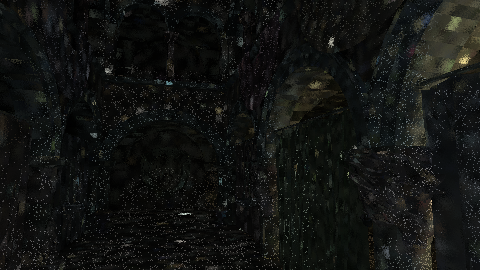
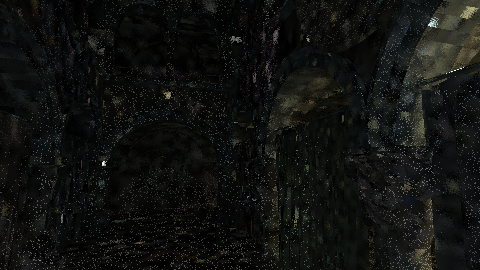
Game pipeline after fixes: final campaign and documentation
- results/jeu_final: 4 scenes, KRC (32 correlated light paths, total + direct
  share cells) vs SHaRC (1x1, accumulation 5, 5x5), denoiser clamped at 1.5
  and 3 standard deviations.
- Sequences: KRC 1.7 to 3.3x less error on Sponza, 5 to 6x on the Cornell box,
  at equal time. Static: Cornell in favour of KRC (1.9 to 4x), Sponza in
  favour of SHaRC (1.1 to 1.6x).
- Blotches reduced, not gone; dark drift 0.74-0.81 after switch-off.
- RESULTATS s15, JOURNAL v14, FEUILLE_DE_ROUTE.

diff --git a/docs/RESULTATS.md b/docs/RESULTATS.md
@@ -532,3 +532,32 @@ Lecture :
   propre. Un joueur verrait les taches.
 - Limites du test : débruiteur simple (pas NRD), 480×270 et 256², scintillement mesuré
   seulement caméra fixe (KRC 0,004 contre 0,005–0,007 pour SHaRC sur Sponza).
+
+## 15. Pipeline de jeu après correctifs
+
+Correctifs (JOURNAL v14) : cellules « total + part directe » au lieu de « indirect
+seulement » (le direct recalculé au sommet relu ajoutait un bruit inutile), 32 chemins
+corrélés par cellule pour une lampe. Même débruiteur pour les deux méthodes, à deux
+réglages du bornage de l'historique (1,5 et 3 écarts-types). 3 graines, `results/jeu_final`.
+
+| Image finale, relMSE* séquence (statique) | KRC 0,5 ch/px | SHaRC 1×1 | SHaRC accumulation 5, 1×1 | Rapport séquence |
+|---|---|---|---|---|
+| Sponza fixe, bornage 1,5 | **1,59e-2** (1,42e-2) · 0,88 ms | 3,46e-2 (1,36e-2) · 0,90 ms | 2,76e-2 (**1,25e-2**) · 0,89 ms | 1,7× |
+| Sponza fixe, bornage 3 | **1,58e-2** (1,24e-2) · 0,94 ms | 4,18e-2 (8,4e-3) · 0,90 ms | 3,28e-2 (**7,8e-3**) · 0,89 ms | 2,1× |
+| Sponza mobile, bornage 1,5 | **2,10e-2** (1,99e-2) · 1,01 ms | 6,38e-2 (1,96e-2) · 1,03 ms | 4,59e-2 (**1,86e-2**) · 1,02 ms | 2,2× |
+| Sponza mobile, bornage 3 | **1,85e-2** (1,83e-2) · 1,03 ms | 8,08e-2 (1,60e-2) · 1,03 ms | 6,11e-2 (**1,55e-2**) · 1,02 ms | 3,3× |
+| Cornell fixe, bornage 1,5 | **5,3e-3** (**9,5e-4**) · 0,48 ms | 3,2e-2 (3,8e-3) · 0,45 ms | 2,8e-2 (3,2e-3) · 0,46 ms | 5,3× |
+| Cornell mobile, bornage 1,5 | **5,1e-3** (**2,0e-3**) · 0,48 ms | 3,6e-2 (5,2e-3) · 0,38 ms | 3,2e-2 (4,5e-3) · 0,37 ms | 6,3× |
+
+Lecture :
+
+- **Sur les séquences, KRC gagne à temps égal partout** : 1,7 à 3,3× sur Sponza, 5 à 6×
+  sur la Cornell box, contre le meilleur SHaRC (réactif compris), au même réglage du
+  débruiteur.
+- **En statique** : KRC 1,9 à 4× meilleur sur la Cornell box ; sur Sponza, SHaRC reste
+  meilleur, de 1,1× (bornage 1,5) à 1,6× (bornage 3).
+- **Après l'extinction de la grande lampe** : KRC à la bonne luminance en 1 frame
+  (1,00–1,16) puis une dérive sombre (0,74–0,81 à f110) ; SHaRC 1,5 à 7× trop clair
+  pendant des dizaines de frames. Les taches de KRC ont nettement diminué mais restent
+  visibles à f119.
+- **Pics** : p95 de KRC 1,3 à 1,9 ms contre 0,9 ms pour SHaRC à 480×270.

diff --git a/docs/FEUILLE_DE_ROUTE.md b/docs/FEUILLE_DE_ROUTE.md
@@ -21,8 +21,9 @@ global : 2 à 4 ms par frame sur GPU, en 1080p à 1440p).
 
 KRC v2 garde l'avantage dans un pipeline de jeu avec débruiteur (1,4 à 5,7× à temps égal
 sur les séquences). Défauts à régler avant une démo :
-1. **Taches après un changement de lumière** : corrections par cellule trop bruitées
-   (8 chemins corrélés). Pistes : plus de chemins corrélés pour les lampes, débruiter le
+1. **Taches après un changement de lumière** : réduites (RESULTATS §15 : cellules
+   « total + part directe », 32 chemins corrélés), pas disparues. Corrections par cellule
+   encore bruitées (8 chemins corrélés au départ). Pistes : plus de chemins corrélés pour les lampes, débruiter le
    champ des corrections (les deltas de cellules voisines sont corrélés), priorité
    d'échantillonnage aux cellules corrigées.
 2. Dérive sombre après l'extinction (0,73).
